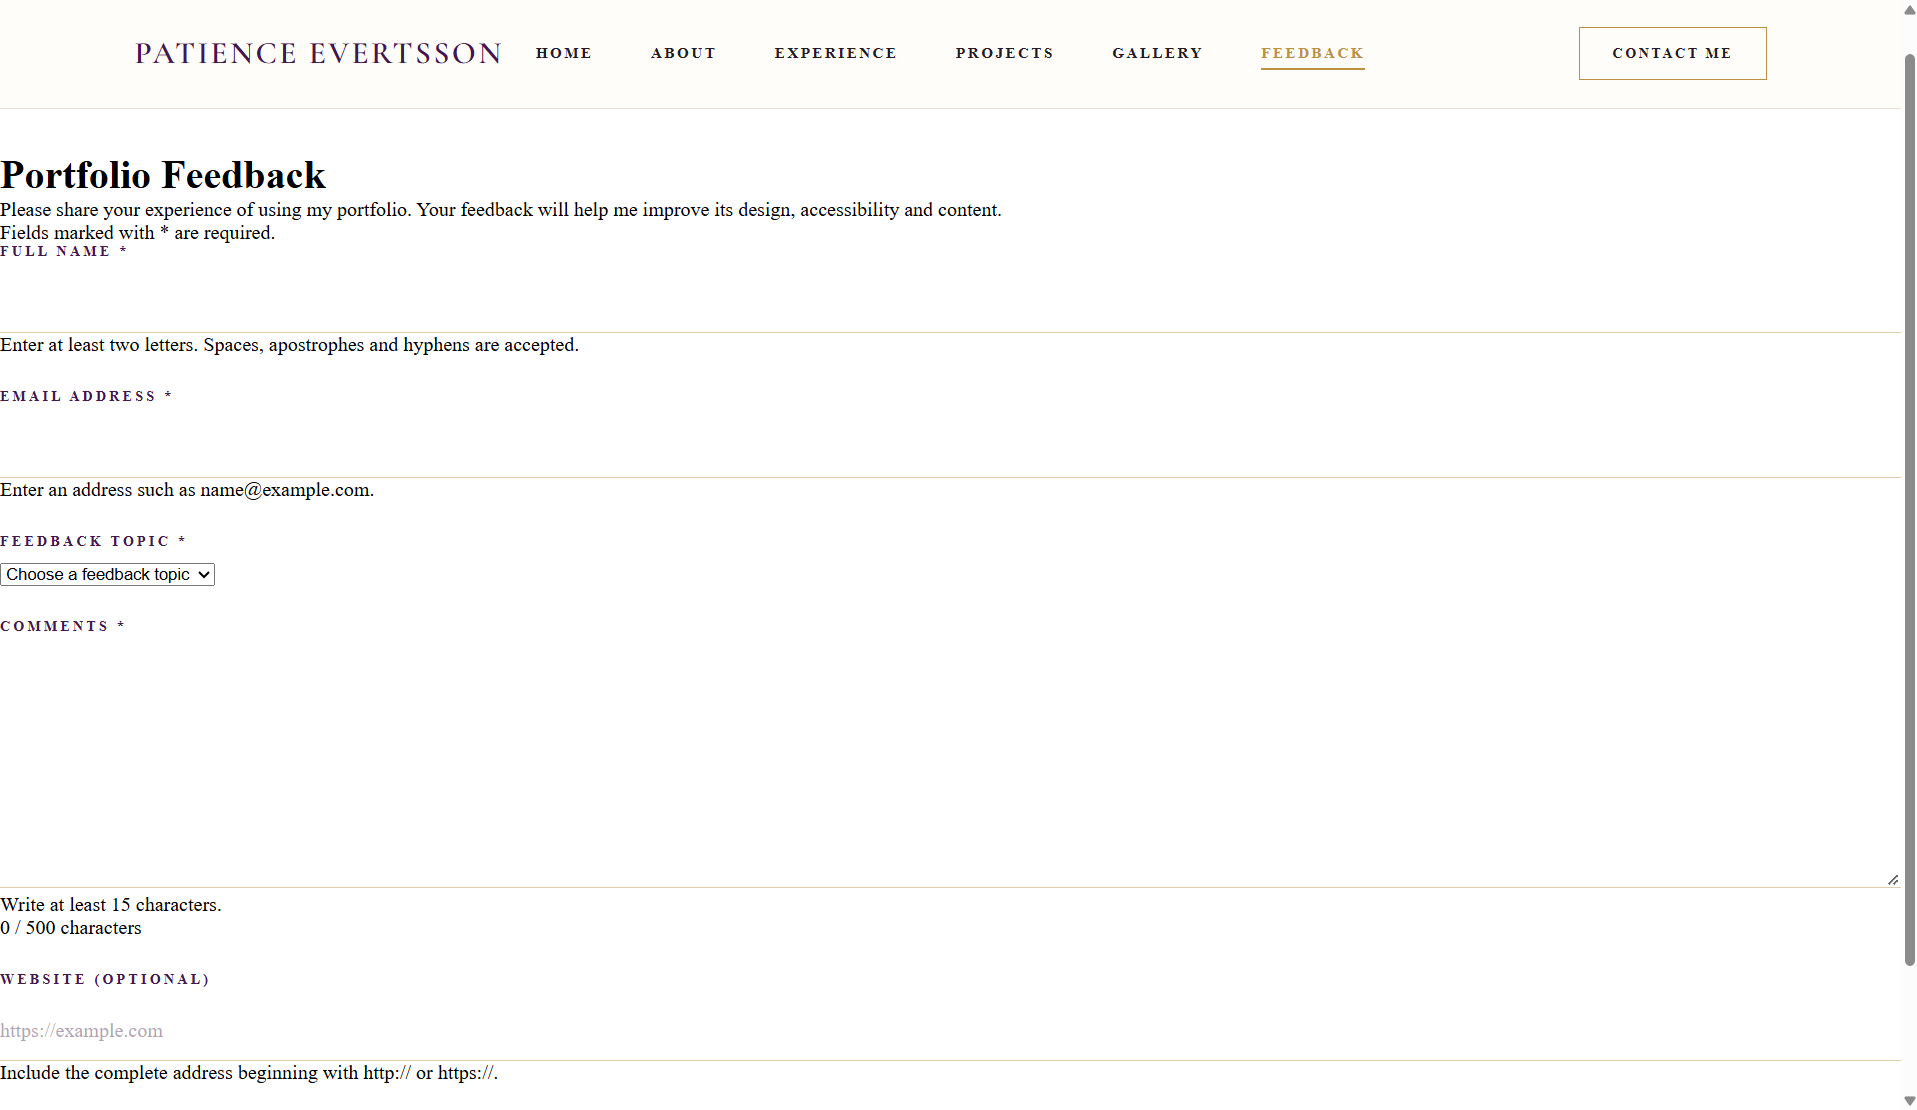
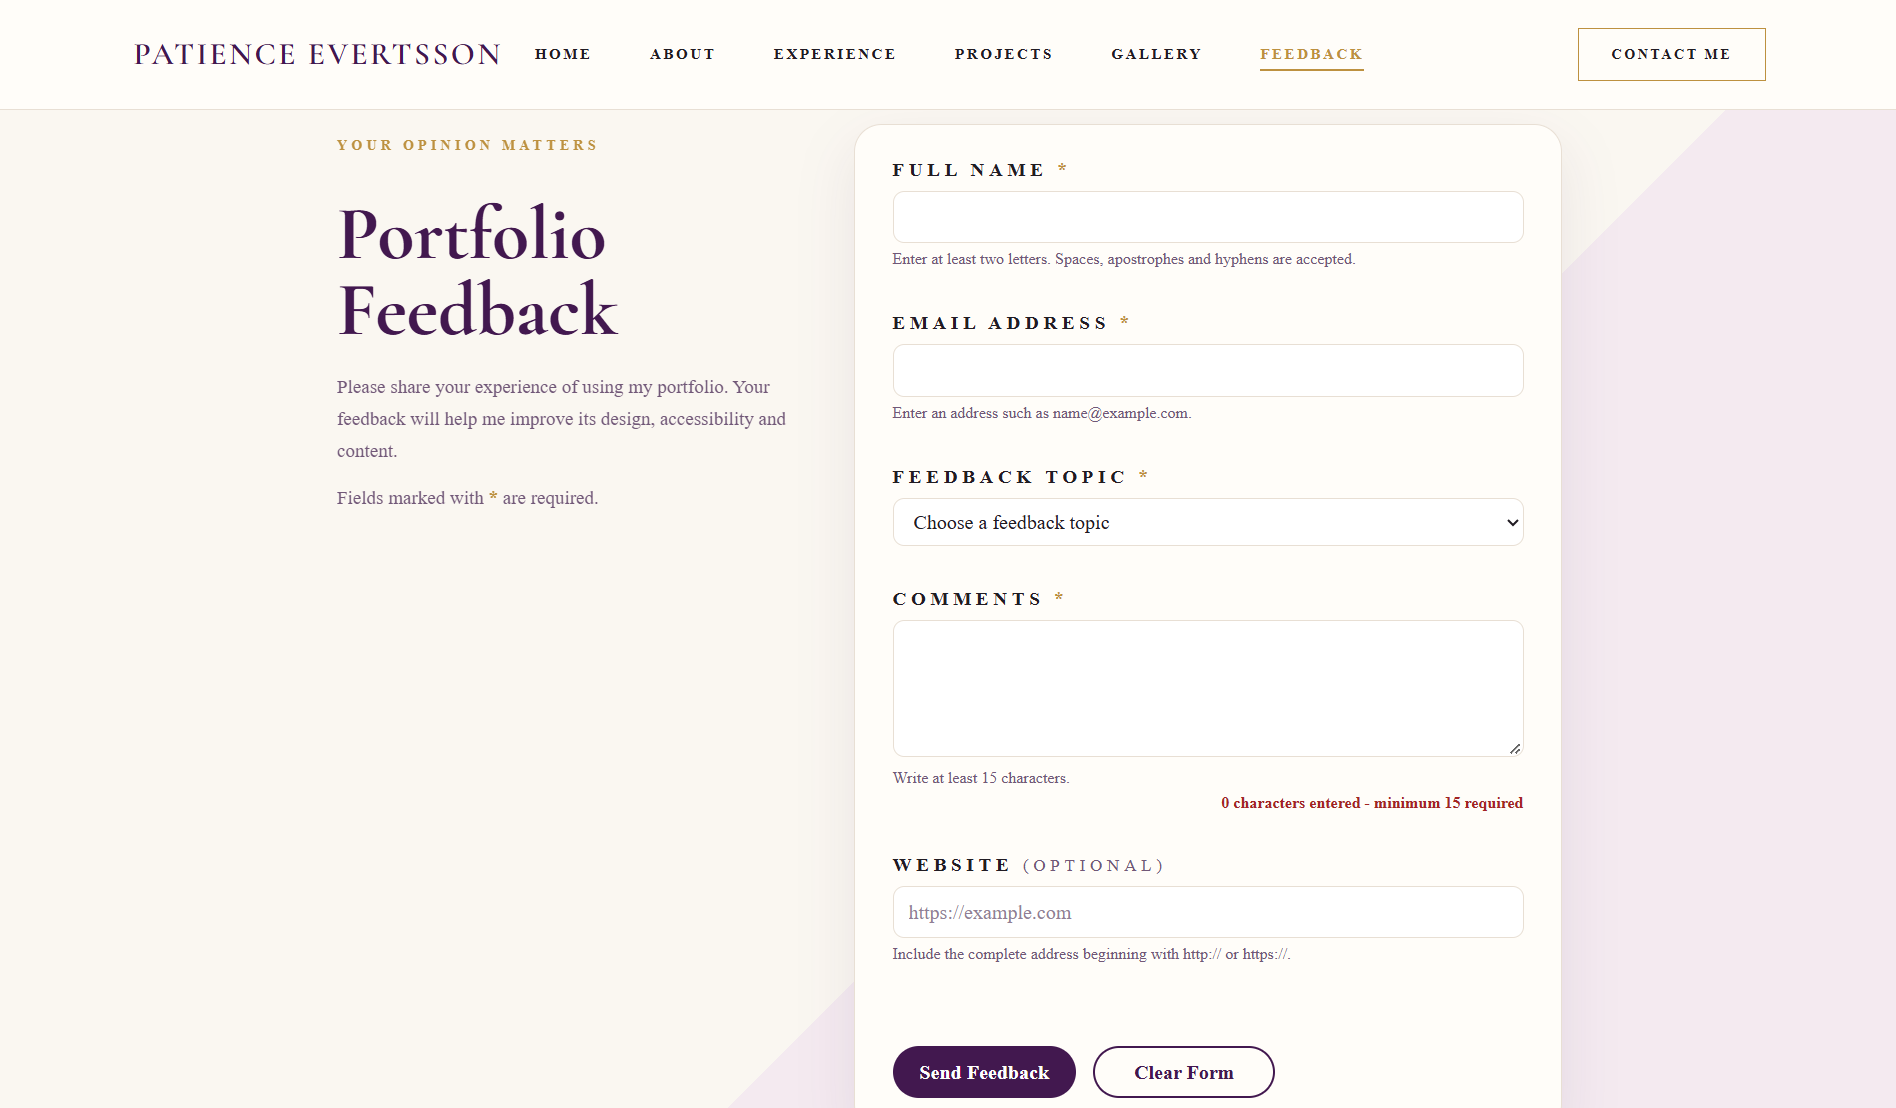
Add Grade 3 and Grade 4 development evidence

diff --git a/build_log.md b/build_log.md
@@ -1,6 +1,5 @@
 # Build Log – Patience Evertsson Interactive Portfolio
 
-
 ## Introduction
 
 This Build Log documents the development of my interactive multi-page
@@ -39,7 +38,8 @@ foundation for Lab 2.
 
 ![Initial header](screenshots/header-initial.png)
 
-The first header contained the website identity and navigation links. However, the design was plain, and the navigation did not remain visible when scrolling.
+The first header contained the website identity and navigation links. However,
+the design was plain, and the navigation did not remain visible when scrolling.
 
 ### Problem
 
@@ -60,7 +60,11 @@ Visitors had to return to the top of the page to use the navigation. Anchor dest
 
 ### Result
 
-The final header remains visible while scrolling and clearly shows the visitor’s current location. The navigation is consistent across all four pages.
+The final header remains visible while scrolling and clearly shows the
+visitor's current location. The Lab 1 header was consistent across the original
+four pages. During Lab 2, I extended the same navigation structure to
+`feedback.html` and `skills.html`, creating consistent navigation across all
+six pages.
 
 ## 2. Hero Section
 
@@ -293,7 +297,7 @@ the mobile menu.
 ### Solution
 
 I visually hid the checkbox while keeping it focusable
-``css
+
 .menu-toggle {
 position: absolute;
 width: 1px;
@@ -431,7 +435,7 @@ Valid fields receive a green border after successful validation.
 
 ### Validation errors
 
-![Feedback validation errors](screenshots/feedback-error.png)
+![Empty submission showing written errors, red field borders and focus on the first invalid field](screenshots/feedback-error.png)
 
 ### Live Comments counter
 
@@ -476,7 +480,18 @@ When the form is valid:
 5. The counter returns to its initial state.
 6. The success message disappears after four seconds.
 
+### Valid field state
+
+After entering valid information, the checked fields display green borders.
+The Comments counter also becomes green after reaching the 15-character
+minimum.
+
+![Feedback form showing valid fields and the completed character minimum](screenshots/feedback-valid.png)
+
 ### Successful submission
+
+After every field passed validation, the form displayed the personalised
+success message before returning to its initial state.
 
 ![Successful feedback submission](screenshots/feedback-success.png)
 
@@ -521,11 +536,12 @@ I tested:
 - Four-second message timeout
 - Clear-button reset
 - Keyboard-only operation
-- Browser Console errors
+- Browser Console checked with no errors found
 
 JavaScript syntax was checked using:
 
 `node --check websites/js/feedback.js`
+![Successful validation of feedback.js](screenshots/feedback-js-check.png)
 
 ### Grade 3 result
 
@@ -623,13 +639,13 @@ and then renders the cards.
 
 ### Filtered and sorted result
 
-![Filtered and sorted Skills](screenshots/skills-filtered-sorted.png)
+![Frontend filter and alphabetical sorting applied together with the updated result counter](screenshots/skills-filtered-sorted.png)
 
 ### Dynamic counter
 
 The counter displays results such as:
 
-`Showing 7 of 22 skills`
+`Showing 7 of 22 skills. Category: Frontend. Sorted by name A to Z.`
 
 It uses:
 
@@ -672,10 +688,6 @@ The Skills grid displays:
 
 ![Skills mobile](screenshots/skills-mobile.png)
 
-### Keyboard focus
-
-![Skills keyboard focus](screenshots/skills-keyboard-focus.png)
-
 ### Grade 4 testing
 
 I tested:
@@ -689,11 +701,12 @@ I tested:
 - Visible focus indicators
 - Desktop, tablet and mobile layouts
 - Horizontal overflow
-- Browser Console errors
+- Browser Console checked with no errors found
 
 JavaScript syntax was checked using:
 
 `node --check websites/js/skills.js`
+![Successful validation of skills.js](screenshots/skills-js-check.png)
 
 ### Grade 4 result
 
@@ -711,17 +724,25 @@ keyboard accessible.
 
 ![Successful validation of skills.html](screenshots/skills-validation.png)
 
-### JavaScript syntax checks
+### Final stylesheet validation
 
-I checked both JavaScript files using:
+After adding the Feedback and Skills styles, I validated the final version of
+`style.css`. The validator completed with no errors.
 
-- `node --check websites/js/feedback.js`
-- `node --check websites/js/skills.js`
+![Successful validation of the final style.css file](screenshots/lab2-css-validation.png)
 
-I also tested both pages in the browser and checked the Console for runtime
-errors.
+## 15. Git Development Evidence
 
-## 15. Final Reflection
+I committed the project in separate stages instead of adding the complete
+solution in one commit. The Git history records the Feedback form structure,
+validation behaviour, successful submission, Skills data, dynamic card
+rendering, filtering, sorting, accessibility improvements, testing and
+corrections.
+
+The repository contains more than the minimum 25 meaningful commits required
+for Grade 4.
+
+## 16. Final Reflection
 
 Lab 2 changed my portfolio from a static HTML and CSS website into an
 interactive vanilla JavaScript project.
